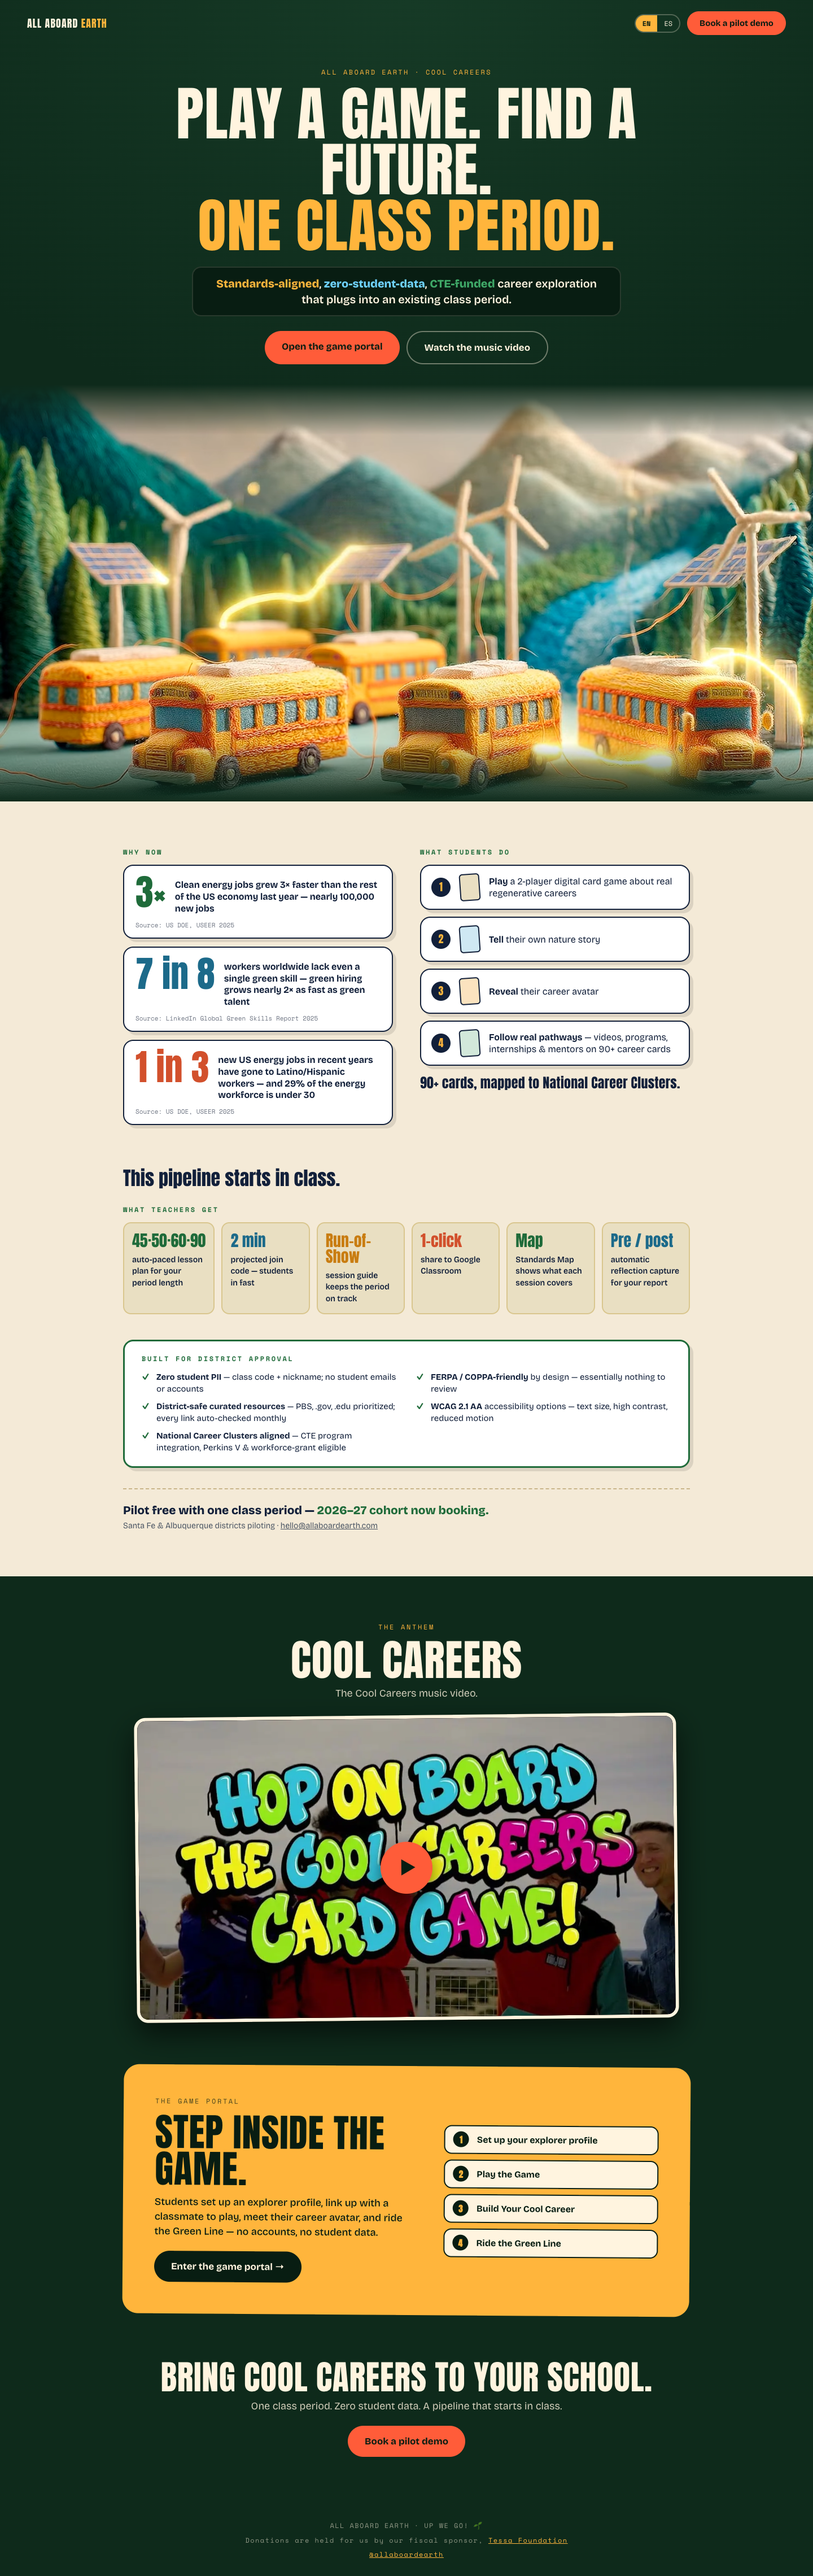
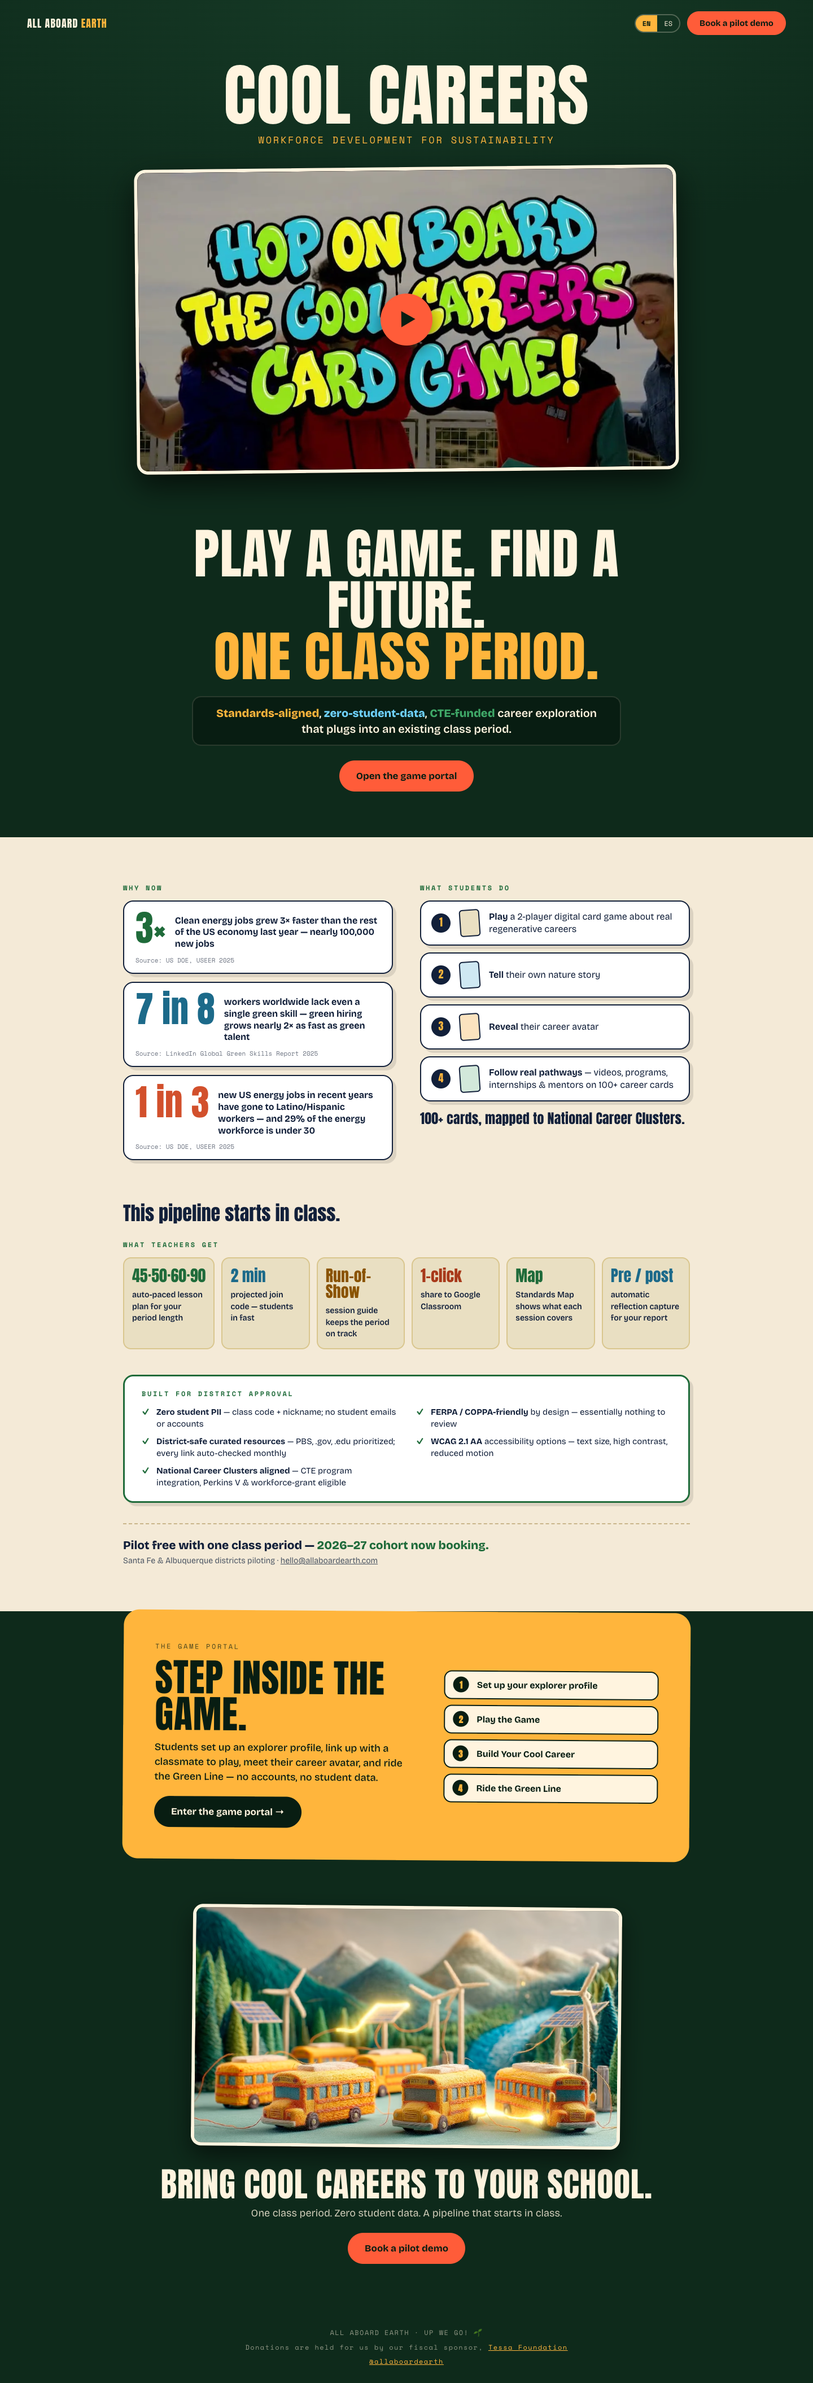
cool careers: music video first, buses framed small by the closing CTA, 100+ cards
New order:
1. "Cool Careers" + tagline "Workforce Development for Sustainability", then
   the music video (thumbnail now above the fold: preloaded, high priority)
2. the headline, standards band and "Open the game portal"
3. program overview
4. game portal
5. the felt electric buses in a 760px framed window above "Bring Cool Careers
   to your school" — full-bleed stretching showed the render's imperfections.
   It loads only when approached and picks the 960px encode unless the
   screen is dense.

Card count is 100+ in both languages (was 90+ from the one-pager); resolved
in CONTENT_NEEDED. Smaller play button and frame borders on phones.

Verified at 1440 / 390 / reduced motion: order, tagline, 100+ cards, video
loads only on click, bus loop plays in view, no errors.

diff --git a/src/pages/CoolCareers.jsx b/src/pages/CoolCareers.jsx
@@ -10,7 +10,6 @@ const YT_ID = "G1IOqfjphIw"; // "Cool Careers" music video, All Aboard Earth on 
 
 const reducedMotion = () =>
   typeof window !== "undefined" && window.matchMedia("(prefers-reduced-motion: reduce)").matches;
-const isSmall = () => typeof window !== "undefined" && window.matchMedia("(max-width: 700px)").matches;
 
 /** Felt electric school buses charging — the hero backdrop. Poster first, clip after load. */
 function BusLoop({ caption }) {
@@ -18,15 +17,18 @@ function BusLoop({ caption }) {
   const [ready, setReady] = useState(false);
   const [playing, setPlaying] = useState(false);
   const [reduced] = useState(reducedMotion);
-  const sm = isSmall() ? "-sm" : "";
+  const figRef = useRef(null);
+  // the frame is at most 760 css px wide: the 960px encode covers it unless the screen is dense
+  const sm = typeof window !== "undefined" && Math.min(760, window.innerWidth) * (window.devicePixelRatio || 1) > 1000 ? "" : "-sm";
   const base = "/art/cool-careers/electric-buses";
 
+  // near the bottom of the page: fetch nothing until it's approached
   useEffect(() => {
-    if (reduced) return;
-    const idle = window.requestIdleCallback || ((fn) => setTimeout(fn, 400));
-    const arm = () => idle(() => setReady(true), { timeout: 2000 });
-    if (document.readyState === "complete") arm();
-    else { window.addEventListener("load", arm, { once: true }); return () => window.removeEventListener("load", arm); }
+    const el = figRef.current;
+    if (reduced || !el) return;
+    const io = new IntersectionObserver(([e]) => { if (e.isIntersecting) { setReady(true); io.disconnect(); } }, { rootMargin: "600px 0px" });
+    io.observe(el);
+    return () => io.disconnect();
   }, [reduced]);
 
   useEffect(() => {
@@ -38,8 +40,8 @@ function BusLoop({ caption }) {
   }, [ready]);
 
   return (
-    <figure className="cc-buses" aria-label={caption}>
-      <img className="cc-buses-media" src={`${base}${sm}-poster.webp`} alt="" width="1600" height="896" decoding="async" />
+    <figure ref={figRef} className="cc-buses" aria-label={caption}>
+      <img className="cc-buses-media" src={`${base}${sm}-poster.webp`} alt="" width="1600" height="896" loading="lazy" decoding="async" />
       {ready && (
         <video ref={vidRef} className={"cc-buses-media cc-buses-vid" + (playing ? " on" : "")} muted loop playsInline preload="auto"
                aria-hidden="true" onPlaying={() => setPlaying(true)}>
@@ -66,7 +68,7 @@ function MusicVideo({ label, title }) {
         />
       ) : (
         <button className="cc-video-facade" onClick={() => setOn(true)} aria-label={label}>
-          <img src="/art/cool-careers/cool-careers-video.webp" alt="" width="1280" height="720" loading="lazy" decoding="async" />
+          <img src="/art/cool-careers/cool-careers-video.webp" alt="" width="1280" height="720" fetchPriority="high" decoding="async" />
           <span className="cc-play" aria-hidden="true">▶</span>
         </button>
       )}
@@ -121,21 +123,26 @@ export default function CoolCareers() {
         .btn:focus-visible, .lang button:focus-visible, .cc-video-facade:focus-visible{ outline:3px solid ${T.sky}; outline-offset:3px; }
         @media (max-width:560px){ .brand{ font-size:15px; } .navr .btn{ display:none; } }
 
-        /* hero — headline first, then the felt buses charging get a full-width band of their own */
-        .cc-hero{ position:relative; background:radial-gradient(120% 90% at 50% 0%, #163A26 0%, ${T.pine} 60%); overflow:hidden; }
-        .cc-hero-inner{ position:relative; z-index:2; max-width:1100px; margin:0 auto; text-align:center;
-          padding:calc(clamp(84px,11vh,112px) + 20px) clamp(16px,4vw,48px) clamp(28px,4vh,44px); }
-        .cc-kicker{ font-size:12px; letter-spacing:.2em; color:${T.marigold}; margin-bottom:16px; }
-        .cc-hero h1{ font-size:clamp(42px,7.6vw,104px); color:${T.cream}; }
-        .cc-hero h1 span{ display:block; color:${T.marigold}; }
+        /* top — title, tagline, the music video */
+        .cc-top{ background:radial-gradient(120% 80% at 50% 0%, #163A26 0%, ${T.pine} 62%); text-align:center;
+          padding:calc(clamp(84px,11vh,112px) + 12px) clamp(16px,4vw,48px) clamp(40px,6vh,64px); }
+        .cc-top h1{ font-size:clamp(52px,9vw,120px); color:${T.cream}; }
+        .cc-tagline{ margin:10px auto clamp(24px,4vh,36px); font-family:'Space Mono', ui-monospace, monospace; font-size:clamp(13px,1.6vw,17px);
+          letter-spacing:.16em; text-transform:uppercase; color:${T.marigold}; }
+
+        /* headline + game portal */
+        .cc-hero{ text-align:center; max-width:1100px; margin:0 auto; padding:clamp(28px,5vh,56px) clamp(16px,4vw,48px) clamp(56px,9vh,96px); }
+        .cc-hero h2{ font-size:clamp(40px,7vw,96px); color:${T.cream}; }
+        .cc-hero h2 span{ display:block; color:${T.marigold}; }
         .cc-band{ margin:24px auto 26px; max-width:760px; background:${T.pineDeep}; border:2px solid ${T.cream}22; border-radius:16px;
           padding:14px 20px; font-size:clamp(16px,1.8vw,20px); font-weight:600; line-height:1.4; }
         .cc-band b{ font-weight:800; }
         .cc-actions{ display:flex; flex-wrap:wrap; gap:12px; justify-content:center; }
-        .cc-buses{ position:relative; margin:0; width:100%; aspect-ratio:16/9; max-height:82vh; min-height:240px; overflow:hidden;
-          -webkit-mask-image:linear-gradient(180deg, transparent 0, #000 12%, #000 86%, transparent 100%);
-                  mask-image:linear-gradient(180deg, transparent 0, #000 12%, #000 86%, transparent 100%); }
-        .cc-buses-media{ position:absolute; inset:0; width:100%; height:100%; object-fit:cover; object-position:50% 62%; display:block; }
+
+        /* the felt buses, framed small by the closing CTA — stretched full-bleed they show their seams */
+        .cc-buses{ position:relative; width:min(760px, 100%); aspect-ratio:16/9; margin:0 auto clamp(26px,4vh,36px); overflow:hidden;
+          border:6px solid ${T.cream}; border-radius:18px; box-shadow:0 18px 40px #0008; transform:rotate(.6deg); background:${T.pineDeep}; }
+        .cc-buses-media{ position:absolute; inset:0; width:100%; height:100%; object-fit:cover; display:block; }
         .cc-buses-vid{ opacity:0; }
         .cc-buses-vid.on{ opacity:1; }
 
@@ -172,10 +179,6 @@ export default function CoolCareers() {
         .cc-pilot small{ display:block; margin-top:6px; font-size:14px; color:#4B5563; }
 
         /* music video */
-        .cc-section-head{ text-align:center; margin-bottom:28px; }
-        .cc-section-head .cc-label{ color:${T.marigold}; }
-        .cc-section-head h2{ font-size:clamp(38px,6vw,76px); }
-        .cc-section-head p{ margin-top:12px; font-size:18px; color:${T.cream}cc; }
         .cc-video{ position:relative; max-width:960px; margin:0 auto; aspect-ratio:16/9; border-radius:20px; overflow:hidden;
           border:6px solid ${T.cream}; box-shadow:0 22px 50px #0009; background:#000; transform:rotate(-.6deg); }
         .cc-video iframe, .cc-video-facade, .cc-video-facade img{ position:absolute; inset:0; width:100%; height:100%; border:0; display:block; }
@@ -186,6 +189,7 @@ export default function CoolCareers() {
           background:${T.coral}; color:${T.pineDeep}; font-size:34px; display:grid; place-items:center; padding-left:6px;
           box-shadow:0 10px 30px #0008; transition:transform .25s var(--ease-settle); }
         .cc-video-facade:hover .cc-play{ transform:scale(1.08); }
+        @media (max-width:560px){ .cc-play{ width:60px; height:60px; margin:-30px 0 0 -30px; font-size:22px; padding-left:4px; } .cc-video, .cc-buses{ border-width:4px; } }
 
         /* game portal */
         .cc-portal{ display:grid; gap:clamp(24px,4vw,48px); align-items:center; grid-template-columns:1fr;
@@ -211,7 +215,7 @@ export default function CoolCareers() {
         @media (prefers-reduced-motion: reduce){
           .btn, .cc-video-facade img, .cc-play{ transition:none !important; }
           .btn:hover, .cc-video-facade:hover img, .cc-video-facade:hover .cc-play{ transform:none !important; }
-          .cc-video, .cc-portal{ transform:none; }
+          .cc-video, .cc-portal, .cc-buses{ transform:none; }
         }
       `}</style>
 
@@ -227,20 +231,23 @@ export default function CoolCareers() {
       </nav>
 
       <main>
-        <header className="cc-hero">
-          <div className="cc-hero-inner">
-            <div className="mono cc-kicker">{c.hero_kicker}</div>
-            <h1 className="display">{c.hero_title}<span>{c.hero_title_b}</span></h1>
-            <p className="cc-band">
-              {c.hero_band.map(([t, h], i) => (h ? <b key={i} style={{ color: hue(h) }}>{t}</b> : <React.Fragment key={i}>{t}</React.Fragment>))}
-            </p>
-            <div className="cc-actions">
-              <a className="btn big" href={LINKS.gamePortal}>{c.hero_portal}</a>
-              <a className="btn big ghost" href="#music-video">{c.hero_video}</a>
-            </div>
-          </div>
-          <BusLoop caption={c.hero_caption} />
+        {/* TOP — the Cool Careers music video */}
+        <header className="cc-top">
+          <h1 className="display">{c.video_title}</h1>
+          <p className="cc-tagline">{c.video_sub}</p>
+          <MusicVideo label={c.video_play} title={c.video_title} />
         </header>
+
+        {/* HEADLINE + GAME PORTAL */}
+        <section className="cc-hero" aria-labelledby="cc-headline">
+          <h2 id="cc-headline" className="display">{c.hero_title}<span>{c.hero_title_b}</span></h2>
+          <p className="cc-band">
+            {c.hero_band.map(([t, h], i) => (h ? <b key={i} style={{ color: hue(h) }}>{t}</b> : <React.Fragment key={i}>{t}</React.Fragment>))}
+          </p>
+          <div className="cc-actions">
+            <a className="btn big" href={LINKS.gamePortal}>{c.hero_portal}</a>
+          </div>
+        </section>
 
         {/* PROGRAM OVERVIEW — the one-pager */}
         <section className="cc-paper" aria-labelledby="cc-why">
@@ -292,18 +299,6 @@ export default function CoolCareers() {
           </div>
         </section>
 
-        {/* MUSIC VIDEO */}
-        <section id="music-video" aria-labelledby="cc-video-title">
-          <div className="cc-wrap">
-            <div className="cc-section-head">
-              <div className="mono cc-label">{c.video_label}</div>
-              <h2 id="cc-video-title" className="display">{c.video_title}</h2>
-              <p>{c.video_sub}</p>
-            </div>
-            <MusicVideo label={c.video_play} title={c.video_title} />
-          </div>
-        </section>
-
         {/* GAME PORTAL */}
         <section aria-labelledby="cc-portal-title">
           <div className="cc-wrap" style={{ paddingTop: 0 }}>
@@ -321,6 +316,7 @@ export default function CoolCareers() {
 
         <section className="cc-cta">
           <div className="cc-wrap" style={{ paddingTop: 0 }}>
+            <BusLoop caption={c.hero_caption} />
             <h2 className="display">{c.cta_head}</h2>
             <p>{c.cta_sub}</p>
             <a className="btn big" href={LINKS.booking}>{c.cta_btn}</a>

diff --git a/src/pages/coolCareersCopy.js b/src/pages/coolCareersCopy.js
@@ -5,12 +5,10 @@ export const ccCopy = {
   en: {
     nav_home: "Home",
     nav_cta: "Book a pilot demo",
-    hero_kicker: "ALL ABOARD EARTH · COOL CAREERS",
     hero_title: "Play a game. Find a future.",
     hero_title_b: "One class period.",
     hero_band: [["Standards-aligned", "marigold"], [", ", null], ["zero-student-data", "sky"], [", ", null], ["CTE-funded", "leaf"], [" career exploration that plugs into an existing class period.", null]],
     hero_portal: "Open the game portal",
-    hero_video: "Watch the music video",
     hero_caption: "Felt school buses charging up on sun and wind.",
 
     why_label: "WHY NOW",
@@ -24,9 +22,9 @@ export const ccCopy = {
       ["Play", " a 2-player digital card game about real regenerative careers"],
       ["Tell", " their own nature story"],
       ["Reveal", " their career avatar"],
-      ["Follow real pathways", " — videos, programs, internships & mentors on 90+ career cards"],
+      ["Follow real pathways", " — videos, programs, internships & mentors on 100+ career cards"],
     ],
-    students_foot: "90+ cards, mapped to National Career Clusters.",
+    students_foot: "100+ cards, mapped to National Career Clusters.",
     pipeline: "This pipeline starts in class.",
     teachers_label: "WHAT TEACHERS GET",
     teachers: [
@@ -49,9 +47,8 @@ export const ccCopy = {
     pilot_hi: " 2026–27 cohort now booking.",
     pilot_sub: "Santa Fe & Albuquerque districts piloting",
 
-    video_label: "THE ANTHEM",
     video_title: "Cool Careers",
-    video_sub: "The Cool Careers music video.",
+    video_sub: "Workforce Development for Sustainability",
     video_play: "Play the Cool Careers music video",
 
     portal_label: "THE GAME PORTAL",
@@ -69,12 +66,10 @@ export const ccCopy = {
   es: {
     nav_home: "Inicio",
     nav_cta: "Reserva una demo",
-    hero_kicker: "ALL ABOARD EARTH · COOL CAREERS",
     hero_title: "Juega. Encuentra un futuro.",
     hero_title_b: "Una sola clase.",
     hero_band: [["Alineado a estándares", "marigold"], [", ", null], ["cero datos estudiantiles", "sky"], [", ", null], ["financiable por CTE", "leaf"], [": exploración de carreras que se integra a una clase existente.", null]],
     hero_portal: "Abre el portal del juego",
-    hero_video: "Mira el video musical",
     hero_caption: "Autobuses escolares de fieltro cargándose con sol y viento.",
 
     why_label: "POR QUÉ AHORA",
@@ -88,9 +83,9 @@ export const ccCopy = {
       ["Juegan", " un juego de cartas digital para 2 jugadores sobre carreras regenerativas reales"],
       ["Cuentan", " su propia historia con la naturaleza"],
       ["Descubren", " su avatar de carrera"],
-      ["Siguen rutas reales", " — videos, programas, pasantías y mentores en más de 90 cartas de carreras"],
+      ["Siguen rutas reales", " — videos, programas, pasantías y mentores en más de 100 cartas de carreras"],
     ],
-    students_foot: "Más de 90 cartas, alineadas a los National Career Clusters.",
+    students_foot: "Más de 100 cartas, alineadas a los National Career Clusters.",
     pipeline: "Esta ruta empieza en el salón.",
     teachers_label: "LO QUE RECIBEN LOS MAESTROS",
     teachers: [
@@ -113,9 +108,8 @@ export const ccCopy = {
     pilot_hi: " inscripciones abiertas para 2026–27.",
     pilot_sub: "Distritos de Santa Fe y Albuquerque en piloto",
 
-    video_label: "EL HIMNO",
     video_title: "Cool Careers",
-    video_sub: "El video musical de Cool Careers.",
+    video_sub: "Desarrollo laboral para la sostenibilidad",
     video_play: "Reproducir el video musical de Cool Careers",
 
     portal_label: "EL PORTAL DEL JUEGO",

diff --git a/cool-careers/index.html b/cool-careers/index.html
@@ -8,6 +8,8 @@
     <title>Cool Careers — All Aboard Earth</title>
     <meta name="description" content="Cool Careers: standards-aligned, zero-student-data, CTE-funded career exploration that plugs into an existing class period. Play a game. Find a future. One class period." />
     <link rel="canonical" href="https://all-aboard-earth.vercel.app/cool-careers" />
+    <!-- the music video thumbnail is the first large image on the page -->
+    <link rel="preload" as="image" href="/art/cool-careers/cool-careers-video.webp" fetchpriority="high" />
     <link rel="preload" href="/fonts/anton-latin.woff2" as="font" type="font/woff2" crossorigin />
     <link rel="preload" href="/fonts/bricolage-latin.woff2" as="font" type="font/woff2" crossorigin />
     <style>

diff --git a/CONTENT_NEEDED.md b/CONTENT_NEEDED.md
@@ -29,9 +29,7 @@ Open copy/content questions. Art gaps live in `MISSING_ART.md`.
    section; "Hear the Music" goes to `/grooves`. Both unchanged from V1 — say if
    either should point somewhere else now.
 
-4. **Cool Careers page (`/cool-careers`) — three things to confirm.**
-   - **Card count.** The one-pager (and so this page) says "90+ career cards";
-     the live game portal says "Browse all 85 cards". Say which number is right.
+4. **Cool Careers page (`/cool-careers`) — two things to confirm.**
    - **Spanish.** The page is fully bilingual, but the Spanish is my rendering of
      the one-pager, not official — `src/pages/coolCareersCopy.js`, `es` block.
    - **Portal link.** Both portal buttons go to the game platform itself,
@@ -39,6 +37,9 @@ Open copy/content questions. Art gaps live in `MISSING_ART.md`.
      button went to `/cool-careers/game` (the card-game rules page) instead.
 
 ## Resolved
+
+- Cool Careers card count (2026-09-14): 100+ — the page says "100+ career cards"
+  (the one-pager said 90+, the game portal still says "all 85 cards").
 
 - Official mission (2026-09-12) — verbatim in the hero body and the meta
   description.
